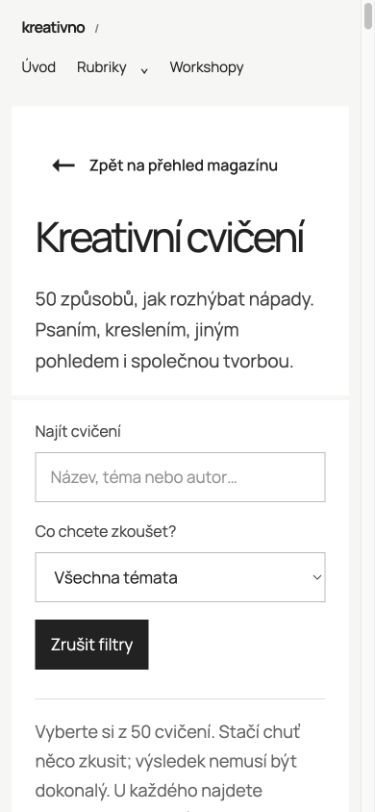
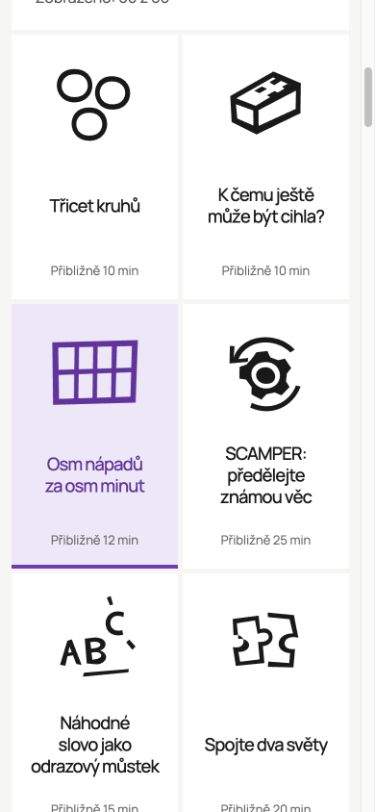
Sjednotit dlaždice cvičení se stylem homepage

diff --git a/src/styles/creative-exercises.css b/src/styles/creative-exercises.css
@@ -1,29 +1,27 @@
 /* Exercise content follows the magazine's white sheets and grey 6/5px gutters. */
-.exercise-library{padding:0 6% 45px}
+.editorial-page main>.exercise-library{padding:0;background:transparent}
 exercise-directory{display:block}
 .exercise-library [hidden]{display:none!important}
-.exercise-filters{display:grid;grid-template-columns:minmax(0,1.4fr) minmax(0,1fr) auto;gap:20px;align-items:end;padding:30px 0;border-bottom:1px solid #dededb}
+.exercise-filters{display:grid;grid-template-columns:minmax(0,1.4fr) minmax(0,1fr) auto;gap:20px;align-items:end;padding:30px 6% 20px;background:#fff}
 .exercise-filters label{display:block;font-size:16px;margin-bottom:10px;color:#444}
 .exercise-filters input,.exercise-filters select,.exercise-filters button{font:inherit;font-size:17px;min-height:52px;border:1px solid #bbb;border-radius:0;background:#fff;color:#222;padding:12px 15px;width:100%;min-width:0}
 .exercise-filters button{cursor:pointer;background:#222;color:#fff;border-color:#222;white-space:nowrap}
 .exercise-filters :is(input,select,button):focus-visible{outline:2px solid #7433c7;outline-offset:4px}
-.exercise-library-intro{display:flex;justify-content:space-between;align-items:baseline;gap:30px;margin:18px 0 30px}
+.exercise-library-intro{display:flex;justify-content:space-between;align-items:baseline;gap:30px;margin:0 0 var(--editorial-gap);padding:0 6% 24px;background:#fff}
 .exercise-library-intro>p:first-child{max-width:700px}
 .editorial-page .exercise-count{font-size:16px;white-space:nowrap;color:#555}
-.exercise-grid{display:grid;grid-template-columns:repeat(3,minmax(0,1fr));gap:var(--editorial-gap);list-style:none;margin:0;padding:0;background:#eee}
+.exercise-grid{display:grid;grid-template-columns:repeat(5,minmax(0,1fr));gap:var(--editorial-gap);list-style:none;margin:0;padding:0}
 .exercise-grid>li{display:flex;min-width:0}
-.exercise-card{display:flex;flex-direction:column;width:100%;padding:30px;background:#fff;border:1px solid #dededb;transition:border-color .2s,background .2s}
-.exercise-card:hover{border-color:#777;background:#fafaf8}
-.exercise-card:focus-visible{outline-offset:-4px!important}
-.exercise-card-top{display:flex;justify-content:space-between;align-items:baseline;gap:15px;font-size:14px;color:#666;margin-bottom:30px}
-.exercise-card-top>span:first-child{font-variant-numeric:tabular-nums;font-size:20px;color:#333}
-.exercise-card-top>span:last-child{text-align:right}
-.editorial-page .exercise-card h2{font-size:clamp(25px,2.3vw,35px);line-height:1.15;letter-spacing:-.045em;overflow-wrap:anywhere}
-.editorial-page .exercise-card p{font-size:17px;line-height:1.65;margin:20px 0 30px}
-.exercise-card-bottom{display:flex;justify-content:space-between;align-items:center;gap:20px;margin-top:auto;font-size:15px;color:#555}
-.exercise-card-bottom>span:last-child{font-size:24px;color:#222}
-.editorial-page .exercise-editorial-note{max-width:850px;font-size:15px;line-height:1.65;margin:30px 0 0}
-.exercise-no-results{padding:35px 0;border-bottom:1px solid #ddd}
+.exercise-card{display:grid;grid-template-rows:125px 1fr auto;justify-items:center;gap:18px;width:100%;min-height:310px;padding:24px 20px;background:#fff;border:0;color:#191919;text-align:center;isolation:isolate;transition:background-color .25s,color .25s,box-shadow .25s}
+.exercise-card-icon{display:grid;place-items:center;align-self:center}
+.exercise-card .brush-icon{display:block;width:110px;height:110px;transform:rotate(-3deg)}
+.exercise-card:focus-visible{background:#f0e7fa;color:#6731a2;box-shadow:inset 0 -4px #7639bd;outline:3px solid #7639bd!important;outline-offset:-5px!important}
+@media(hover:hover){.exercise-card:hover{background:#f0e7fa;color:#6731a2;box-shadow:inset 0 -4px #7639bd}}
+.exercise-card:active{background:#e5d8f5}
+.editorial-page .exercise-card h2{align-self:center;font-size:clamp(19px,1.6vw,25px);font-weight:500;line-height:1.23;letter-spacing:-.045em;text-wrap:balance;overflow-wrap:break-word;max-width:260px}
+.exercise-card-time{font-size:14px;line-height:1.5;color:#666}
+.editorial-page .exercise-editorial-note{font-size:15px;line-height:1.65;margin:var(--editorial-gap) 0 0;padding:30px 6%;background:#fff}
+.exercise-no-results{padding:35px 6%;margin:0;background:#fff}
 .exercise-hero{padding:35px 6% 50px}
 .exercise-back{display:inline-block;padding:12px 0;border-bottom:1px solid #bbb;font-size:17px}
 .editorial-page .exercise-position{margin:35px 0 20px;font-size:16px;color:#666}
@@ -58,9 +56,10 @@ exercise-directory{display:block}
 .exercise-neighbours strong{font-size:clamp(23px,2.2vw,32px);font-weight:450;line-height:1.2;letter-spacing:-.045em;overflow-wrap:anywhere}
 .exercise-neighbours>a:hover strong{text-decoration:underline;text-underline-offset:5px}
 @media(min-width:1800px){.exercise-reading-layout{grid-template-columns:320px minmax(0,1fr)}}
-@media(max-width:1100px){.exercise-grid{grid-template-columns:repeat(2,minmax(0,1fr))}.exercise-reading-layout{grid-template-columns:220px minmax(0,1fr)}.exercise-sidebar{padding:30px 22px}.exercise-filters{grid-template-columns:minmax(0,1fr) minmax(0,1fr)}.exercise-filters button{width:auto;justify-self:start;grid-column:1/-1}}
-@media(max-width:800px){.exercise-reading-layout{grid-template-columns:1fr}.exercise-sidebar{position:static;padding:30px 7%}.exercise-sidebar ul{margin-bottom:20px}.exercise-sidebar nav{display:flex;flex-wrap:wrap;gap:0 24px}.exercise-body{padding:35px 7% 40px}.exercise-library-intro{display:block}.exercise-card{padding:25px}}
-@media(max-width:700px){.exercise-library{padding:0 7% 35px}.exercise-grid{grid-template-columns:1fr}.exercise-filters{grid-template-columns:1fr;gap:18px;padding-top:20px}.exercise-filters button{grid-column:auto}.exercise-library-intro{margin-bottom:25px}.exercise-hero{padding:25px 7% 35px}.exercise-back{font-size:16px}.exercise-hero h1{font-size:clamp(36px,10vw,52px)}.editorial-page .exercise-position{font-size:15px;margin:25px 0 18px}.exercise-facts{display:grid;gap:22px}.exercise-facts dd{font-size:19px}.editorial-page .exercise-body h2{font-size:30px}.editorial-page .exercise-body p,.exercise-steps{font-size:18px;line-height:1.75}.editorial-page .exercise-example p:not(.exercise-example-note){font-size:21px}.exercise-body>section{margin-bottom:35px}.exercise-neighbours{grid-template-columns:1fr}.exercise-neighbours>a{padding:30px 7%}.exercise-card-top{margin-bottom:24px}.editorial-page .exercise-card h2{font-size:29px}}
+@media(max-width:1100px){.exercise-reading-layout{grid-template-columns:220px minmax(0,1fr)}.exercise-sidebar{padding:30px 22px}.exercise-filters{grid-template-columns:minmax(0,1fr) minmax(0,1fr)}.exercise-filters button{width:auto;justify-self:start;grid-column:1/-1}}
+@media(max-width:1000px){.exercise-grid{grid-template-columns:repeat(3,minmax(0,1fr))}.editorial-page .exercise-card h2{font-size:22px}}
+@media(max-width:800px){.exercise-reading-layout{grid-template-columns:1fr}.exercise-sidebar{position:static;padding:30px 7%}.exercise-sidebar ul{margin-bottom:20px}.exercise-sidebar nav{display:flex;flex-wrap:wrap;gap:0 24px}.exercise-body{padding:35px 7% 40px}.exercise-library-intro{display:block}}
+@media(max-width:700px){.exercise-grid{grid-template-columns:repeat(2,minmax(0,1fr))}.exercise-card{grid-template-rows:100px 1fr auto;min-height:275px;padding:20px 14px;gap:14px}.exercise-card .brush-icon{width:95px;height:95px}.editorial-page .exercise-card h2{font-size:clamp(17px,4.7vw,22px)}.exercise-card-time{font-size:13px}.exercise-filters{grid-template-columns:1fr;gap:18px;padding:20px 7%}.exercise-filters button{grid-column:auto}.exercise-library-intro{padding:0 7% 20px}.editorial-page .exercise-editorial-note{padding:25px 7%}.exercise-hero{padding:25px 7% 35px}.exercise-back{font-size:16px}.exercise-hero h1{font-size:clamp(36px,10vw,52px)}.editorial-page .exercise-position{font-size:15px;margin:25px 0 18px}.exercise-facts{display:grid;gap:22px}.exercise-facts dd{font-size:19px}.editorial-page .exercise-body h2{font-size:30px}.editorial-page .exercise-body p,.exercise-steps{font-size:18px;line-height:1.75}.editorial-page .exercise-example p:not(.exercise-example-note){font-size:21px}.exercise-body>section{margin-bottom:35px}.exercise-neighbours{grid-template-columns:1fr}.exercise-neighbours>a{padding:30px 7%}}
 @media(prefers-reduced-motion:reduce){.exercise-card{transition:none}}
 
 .exercise-detail-page{overflow:clip}

diff --git a/docs/DESIGN.md b/docs/DESIGN.md
@@ -504,3 +504,11 @@ Ověřeno 50 unikátních detailů, vyplnění všech polí, zdroje, odkazy a si
 Na výslovný pokyn je citát vedle osobní fotografie odstraněný. Tři bloky na širokém monitoru jsou fotografie / nadpis „A kde v tom jsem já?“ / osobní text s odkazem na okénko. Nadpis je samostatný header se stávajícím ID person-title, text a fotografie beze změn. Na tabletu fotografie a nadpis vedle sebe, osobní text pod nimi; mobil vše pod sebou. Bílá plocha a společné odsazení zůstávají.
 
 Fotografická sekce s banánem zachovává původní výšku i nadpis, obraz je zúžený na 78 % (mobil 84 %), vycentrovaný. Motiv má více bílého prostoru; zdrojový snímek není upravovaný. Kontrola 1920 px a 390 px: bez vodorovného přesahu, citát chybí, nadpis jediný, fotografie načtené, konzole bez chyb. Aktuální snímky: nahled-medailonek-layout.png a nahled-kreativec-banan.png.
+
+## Dlaždice cvičení ve stylu homepage — 8. 11. 2026
+
+Autor odmítl podobu textových karet cvičení a dodal jako referenci ikonovou mřížku z homepage. Přehled všech 50 cvičení nyní používá stejné bílé plochy, šedé spáry 6/5 px, společnou vnější hranu a štětcové ikony. Bez rámečků jednotlivých karet, čísel, rohových kategorií a dlouhých zadání v přehledu. Každá dlaždice obsahuje uprostřed ikonu, stále viditelný název a orientační čas. Viditelné názvy jsou pracovní návrhová volba pro orientaci mezi 50 odkazy, nikoli další potvrzený pokyn autora.
+
+`ExerciseIcon.astro` mapuje motivy na původní `BrushIcon.astro` z homepage; doplněné tři vlastní SVG kresby kruhů, cihly a osmi polí drží stejný rukopis. Žádné nové bitmapy. Hover/focus používá stejnou světlou fialovou, tmavou fialovou ikonu a spodní linku jako homepage; krátká gesta přebírá ze společného `icon-motion.css`, reduced motion je vypíná. Samotná homepage se nemění. Celá dlaždice je nativní odkaz rovnou na detail, bez mezikroku odhalování textu nebo herního dark mode.
+
+Mřížka má 5 sloupců nad 1000 px, 3 pro 701–1000 px a 2 do 700 px. Všech 50 textů, zdrojů, detailů i hledání podle autora/tématu zůstává. Ověřeno 1440/1001/1000/390/320 px, stejné výšky karet, žádný přetékající název ani stránka, 50 ikon a odkazů, hledání Rodari, prázdný výsledek kombinace filtrů, reset, otevření detailu Enterem a návrat. Konzole bez chyb. Produkční build s projektovým podadresářem prošel: 81 HTML, 2136 místních URL, 83 Astro souborů bez chyb/varování. Aktualizované snímky `nahled-cviceni.jpg` a `nahled-cviceni-mobile.jpg`. Autor následně výslovně zadal „pushni to“; nahrání této vizuální revize do main a navazující automatické nasazení je autorizované.
